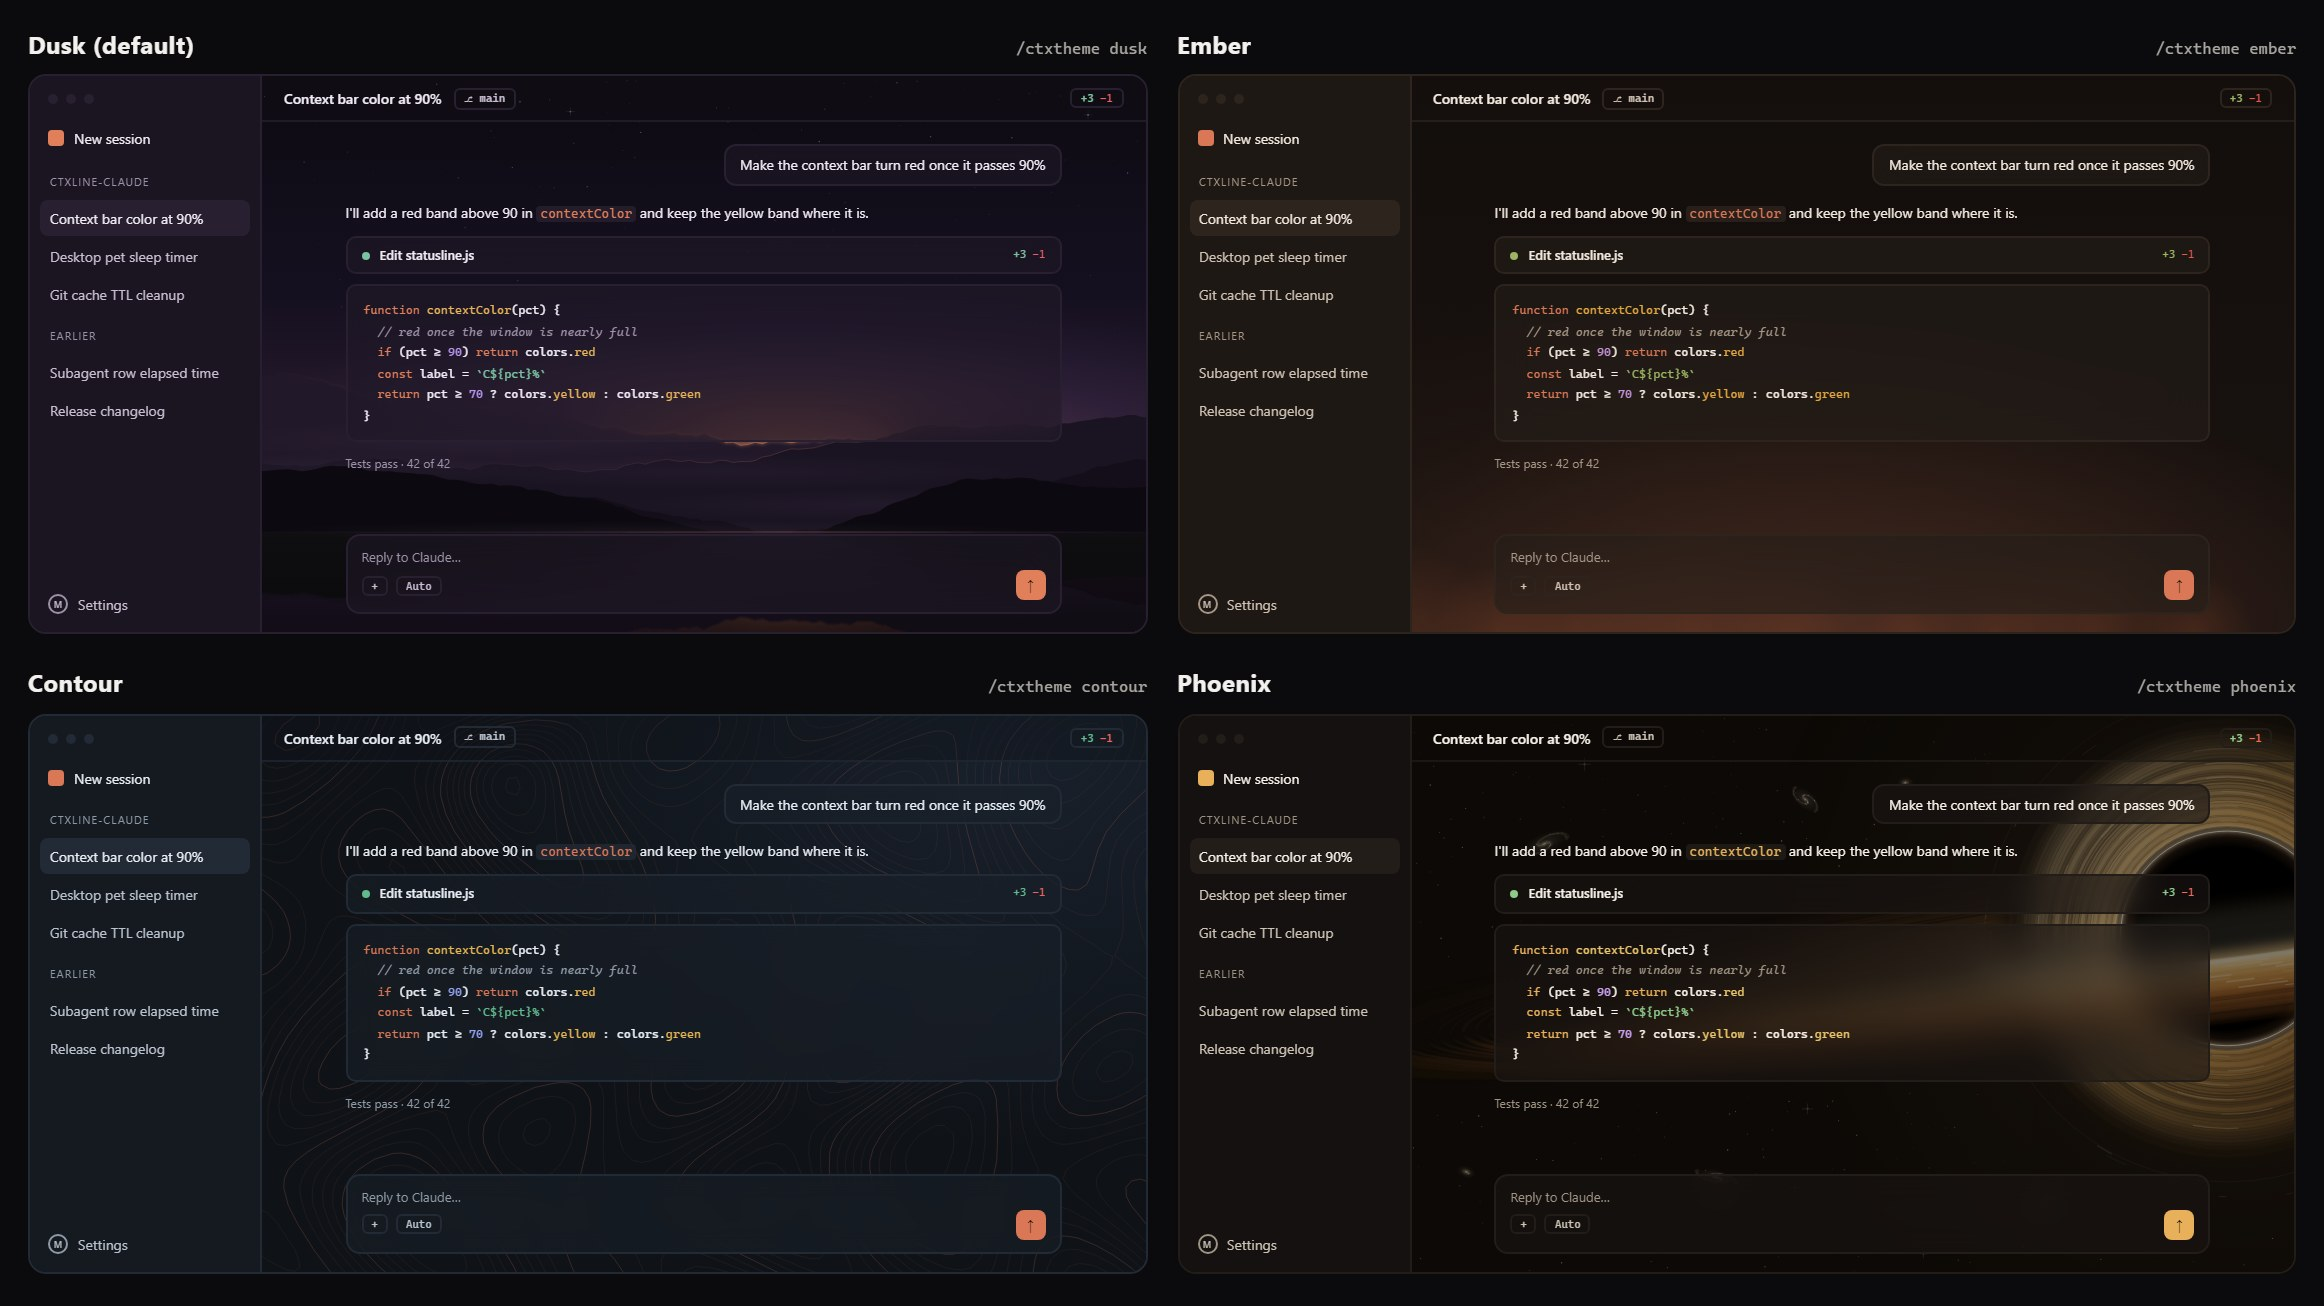
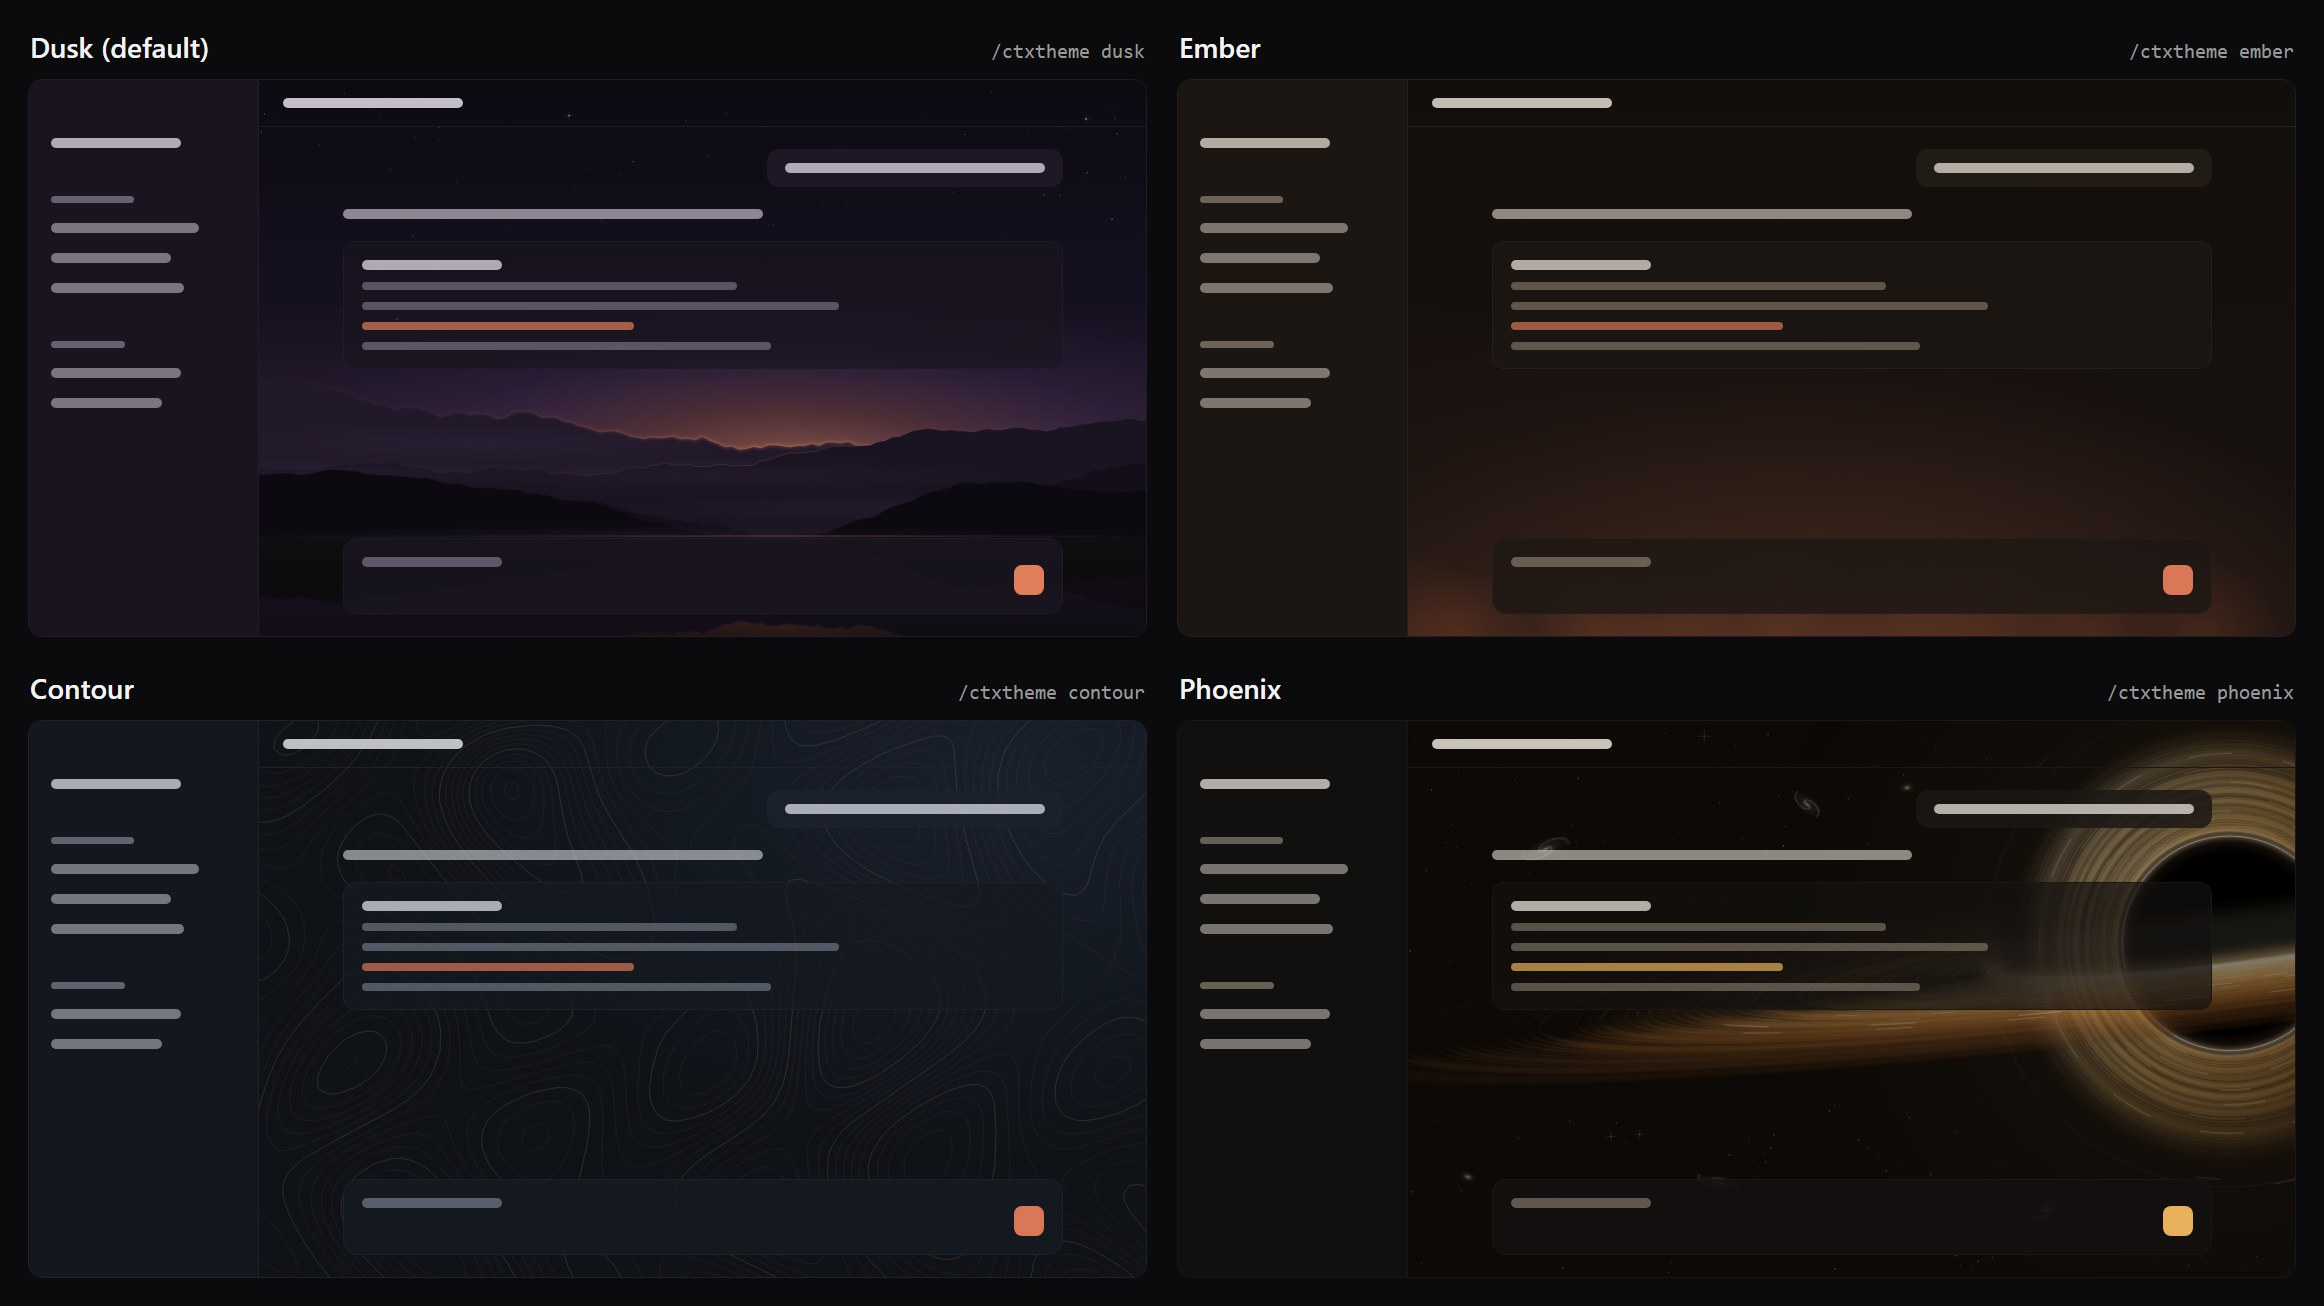
docs(desktop-themes): redraw the preview as a wireframe and shorten the README Themes section

diff --git a/README.md b/README.md
@@ -204,35 +204,24 @@ To update by hand, run `claude plugin update ctxline-desktop@ctxline`. To remove
 
 ### Themes
 
-A second plugin, `ctxline-desktop-themes` (shown as **ctxline themes**), restyles the desktop app with four dark looks: three built around Claude orange and one around gold. Each one has a light and a dark version, and a still background behind the conversation. The colors follow the app's light or dark mode. The background switches with the `prefers-color-scheme` media query.
+A second plugin, `ctxline-desktop-themes`, adds four themes with a still background each. Light and dark follow the app.
 
 <p align="center">
-  <img src="docs/assets/desktop-themes-preview.jpg" alt="The four ctxline themes in dark mode: Dusk, Ember, Contour and Phoenix">
+  <img src="docs/assets/desktop-themes-preview.jpg" alt="The four ctxline themes: Dusk, Ember, Contour and Phoenix">
 </p>
-
-The preview shows dark mode, with each background caught at one moment. See them move at [ctxline.js.org](https://ctxline.js.org/#themes).
 
 ```
 /plugin install ctxline-desktop-themes@ctxline
 ```
 
-| Style | Look | Background |
-|---|---|---|
-| `dusk` (default) | deep plum | layered mountain ridges under a violet and orange sky, mirrored in a still lake |
-| `ember` | warm charcoal | glowing coals along the bottom |
-| `contour` | blue-slate | orange topographic map lines |
-| `phoenix` | warm black and gold | a large black hole on the right edge, its striped disk streaming out to the left, small galaxies around it |
-
-Themes show only in Code sessions, starting with the next one you open after installing. A session that's already open, the home screen and the Chat tab keep the app's own look. Switch with `/ctxtheme <style>`. Your pick is remembered for new sessions. `/ctxtheme` on its own lists the styles, and `/ctxtheme off` goes back to the app's own look.
+Open a new Code session to see it. Switch with `/ctxtheme dusk|ember|contour|phoenix`, list with `/ctxtheme`, turn off with `/ctxtheme off`. Your pick carries over to new sessions.
 
 > [!NOTE]
-> `/clear` removes the theme's background for that session. Start a new Code session to get it back.
->
-> The app shows one theme at a time, so turn off other theme plugins to keep ctxline's. In the terminal, `/ctxtheme` still saves your pick, but nothing is drawn there.
->
-> Some parts of the app keep their own look because Claude's theme API doesn't reach them yet: permission prompts ("Allow Claude to run this command?"), the terminal pane, and the Changes and files side panel. Code blocks get a code color theme per style, but the block's background is the app's. Support will follow when the API adds it.
+> - `/clear` removes the background for that session. A new session brings it back.
+> - Only one theme plugin can be on at a time.
+> - Permission prompts, the terminal pane and the Changes panel keep the app's look. The theme API doesn't reach them yet.
 
-It works on its own or together with `ctxline-desktop`. Updates work the same way as above: `claude plugin update ctxline-desktop-themes@ctxline`. Source is in [`desktop-themes/`](desktop-themes/).
+Update with `claude plugin update ctxline-desktop-themes@ctxline`. Source is in [`desktop-themes/`](desktop-themes/).
 
 ## FAQ
 
